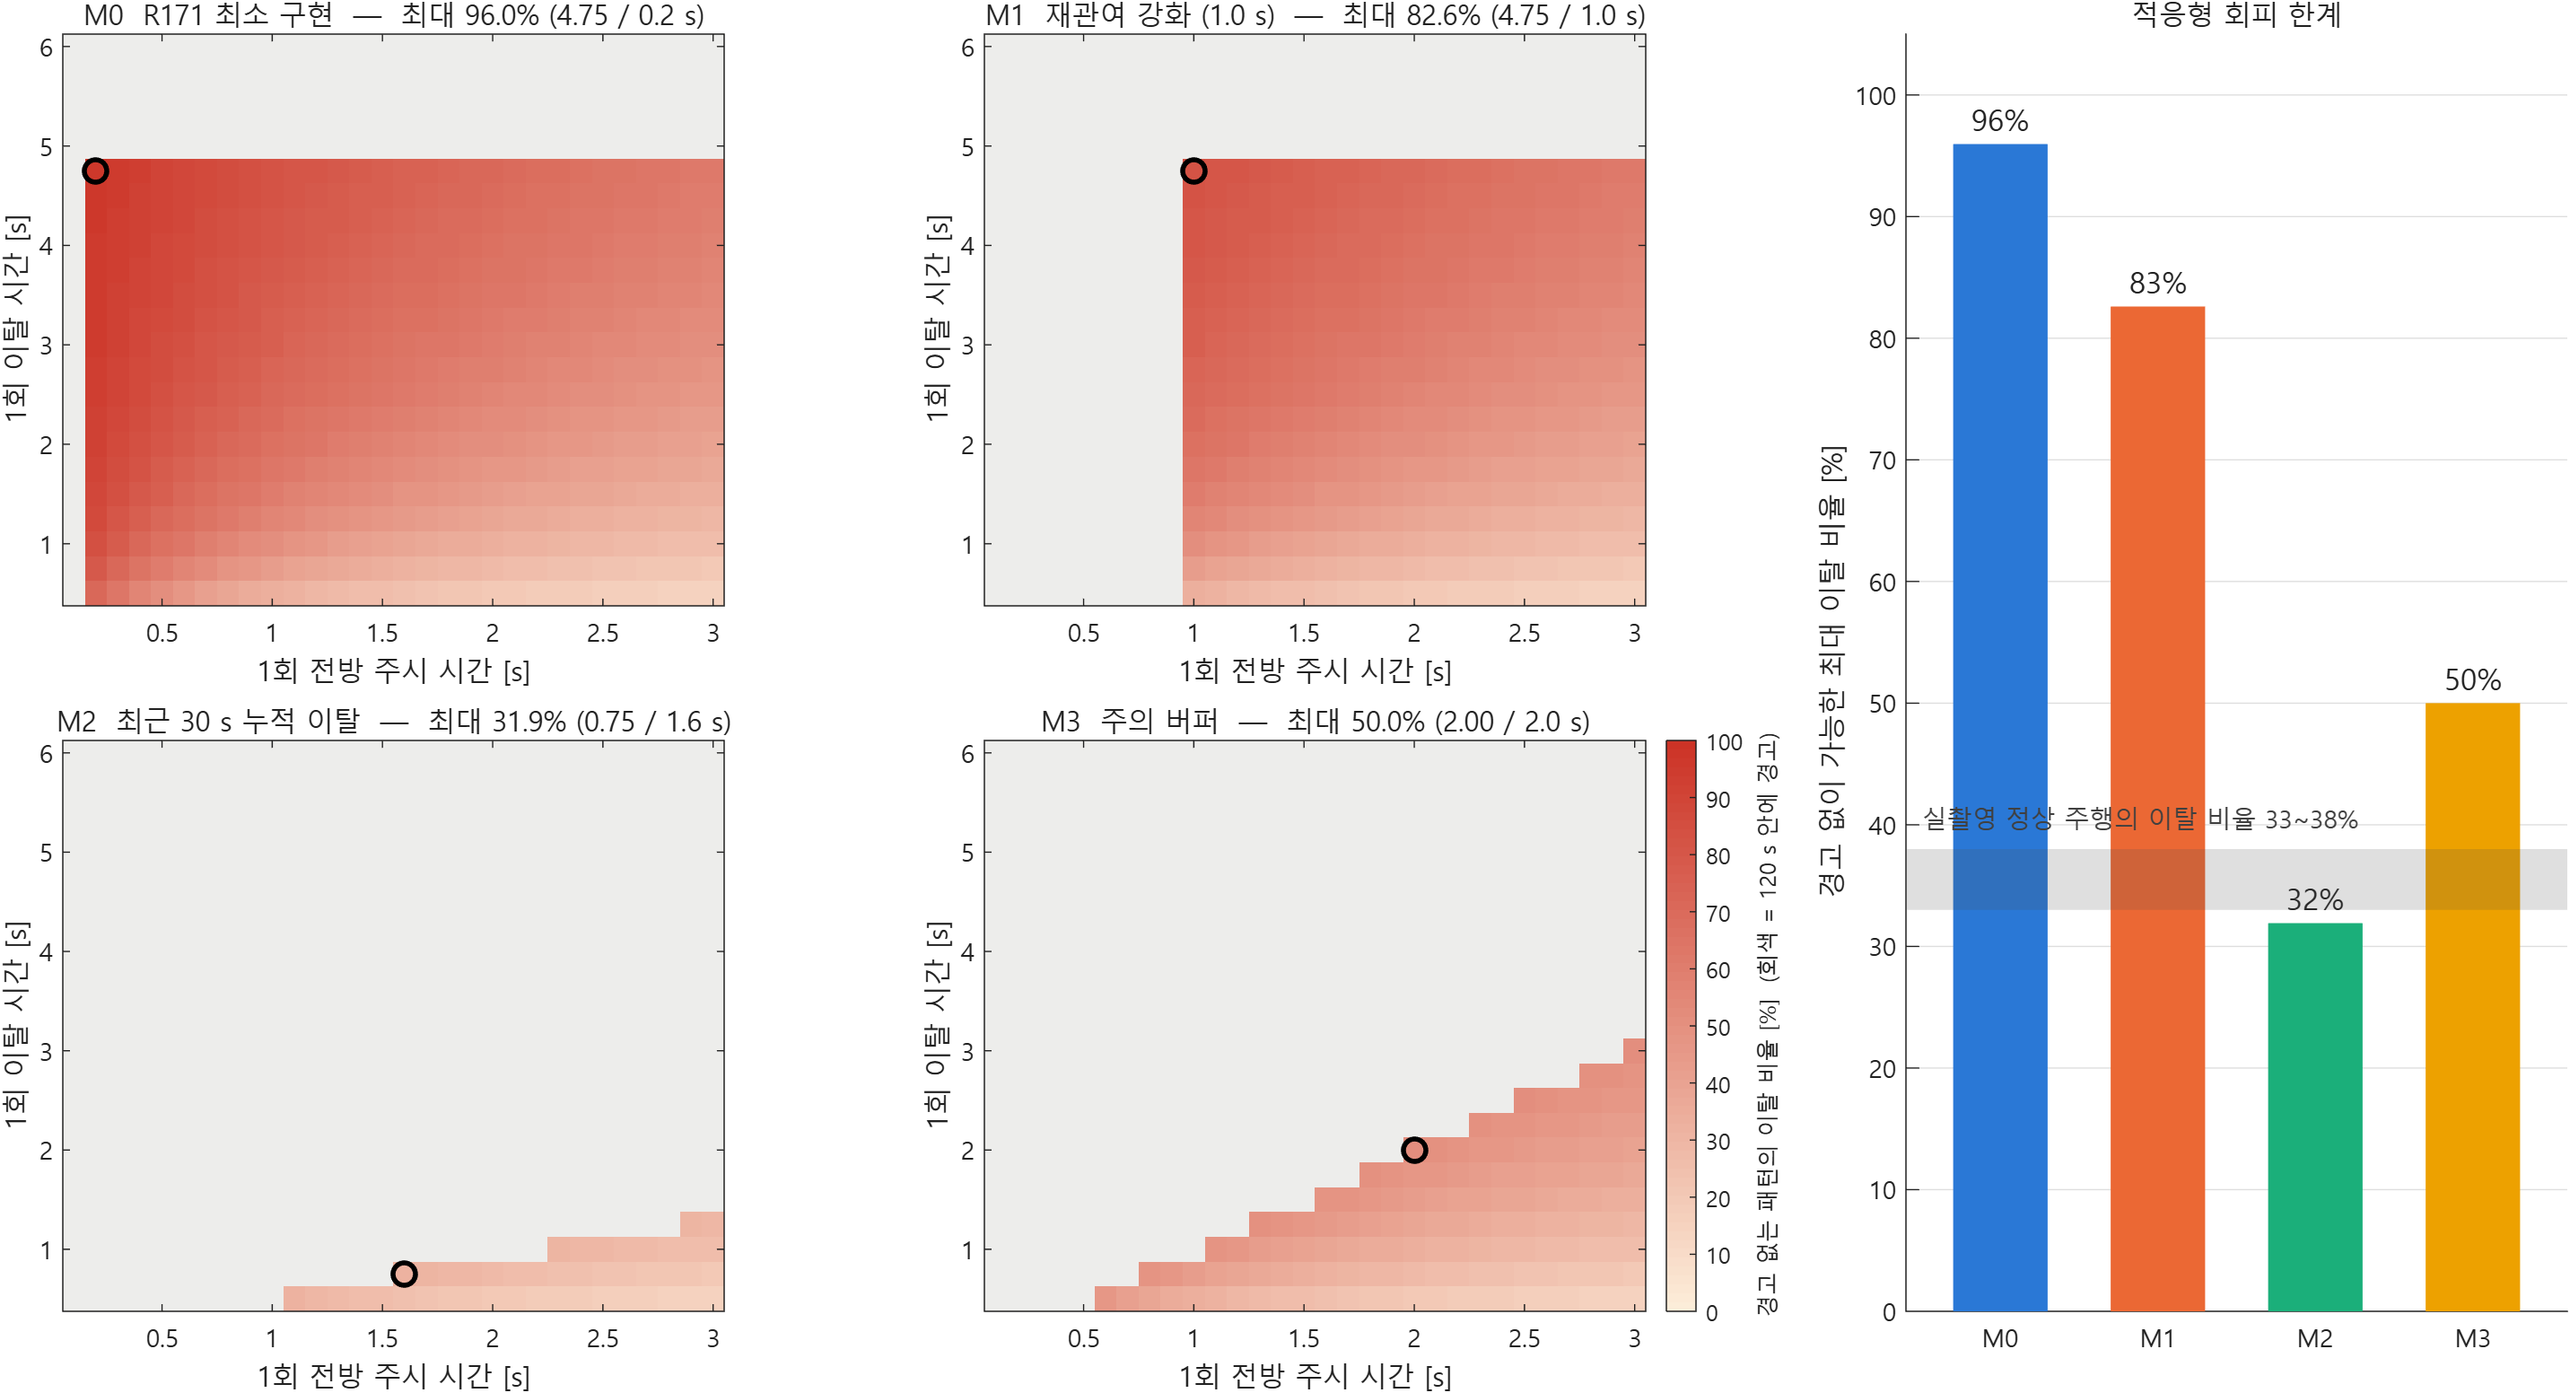
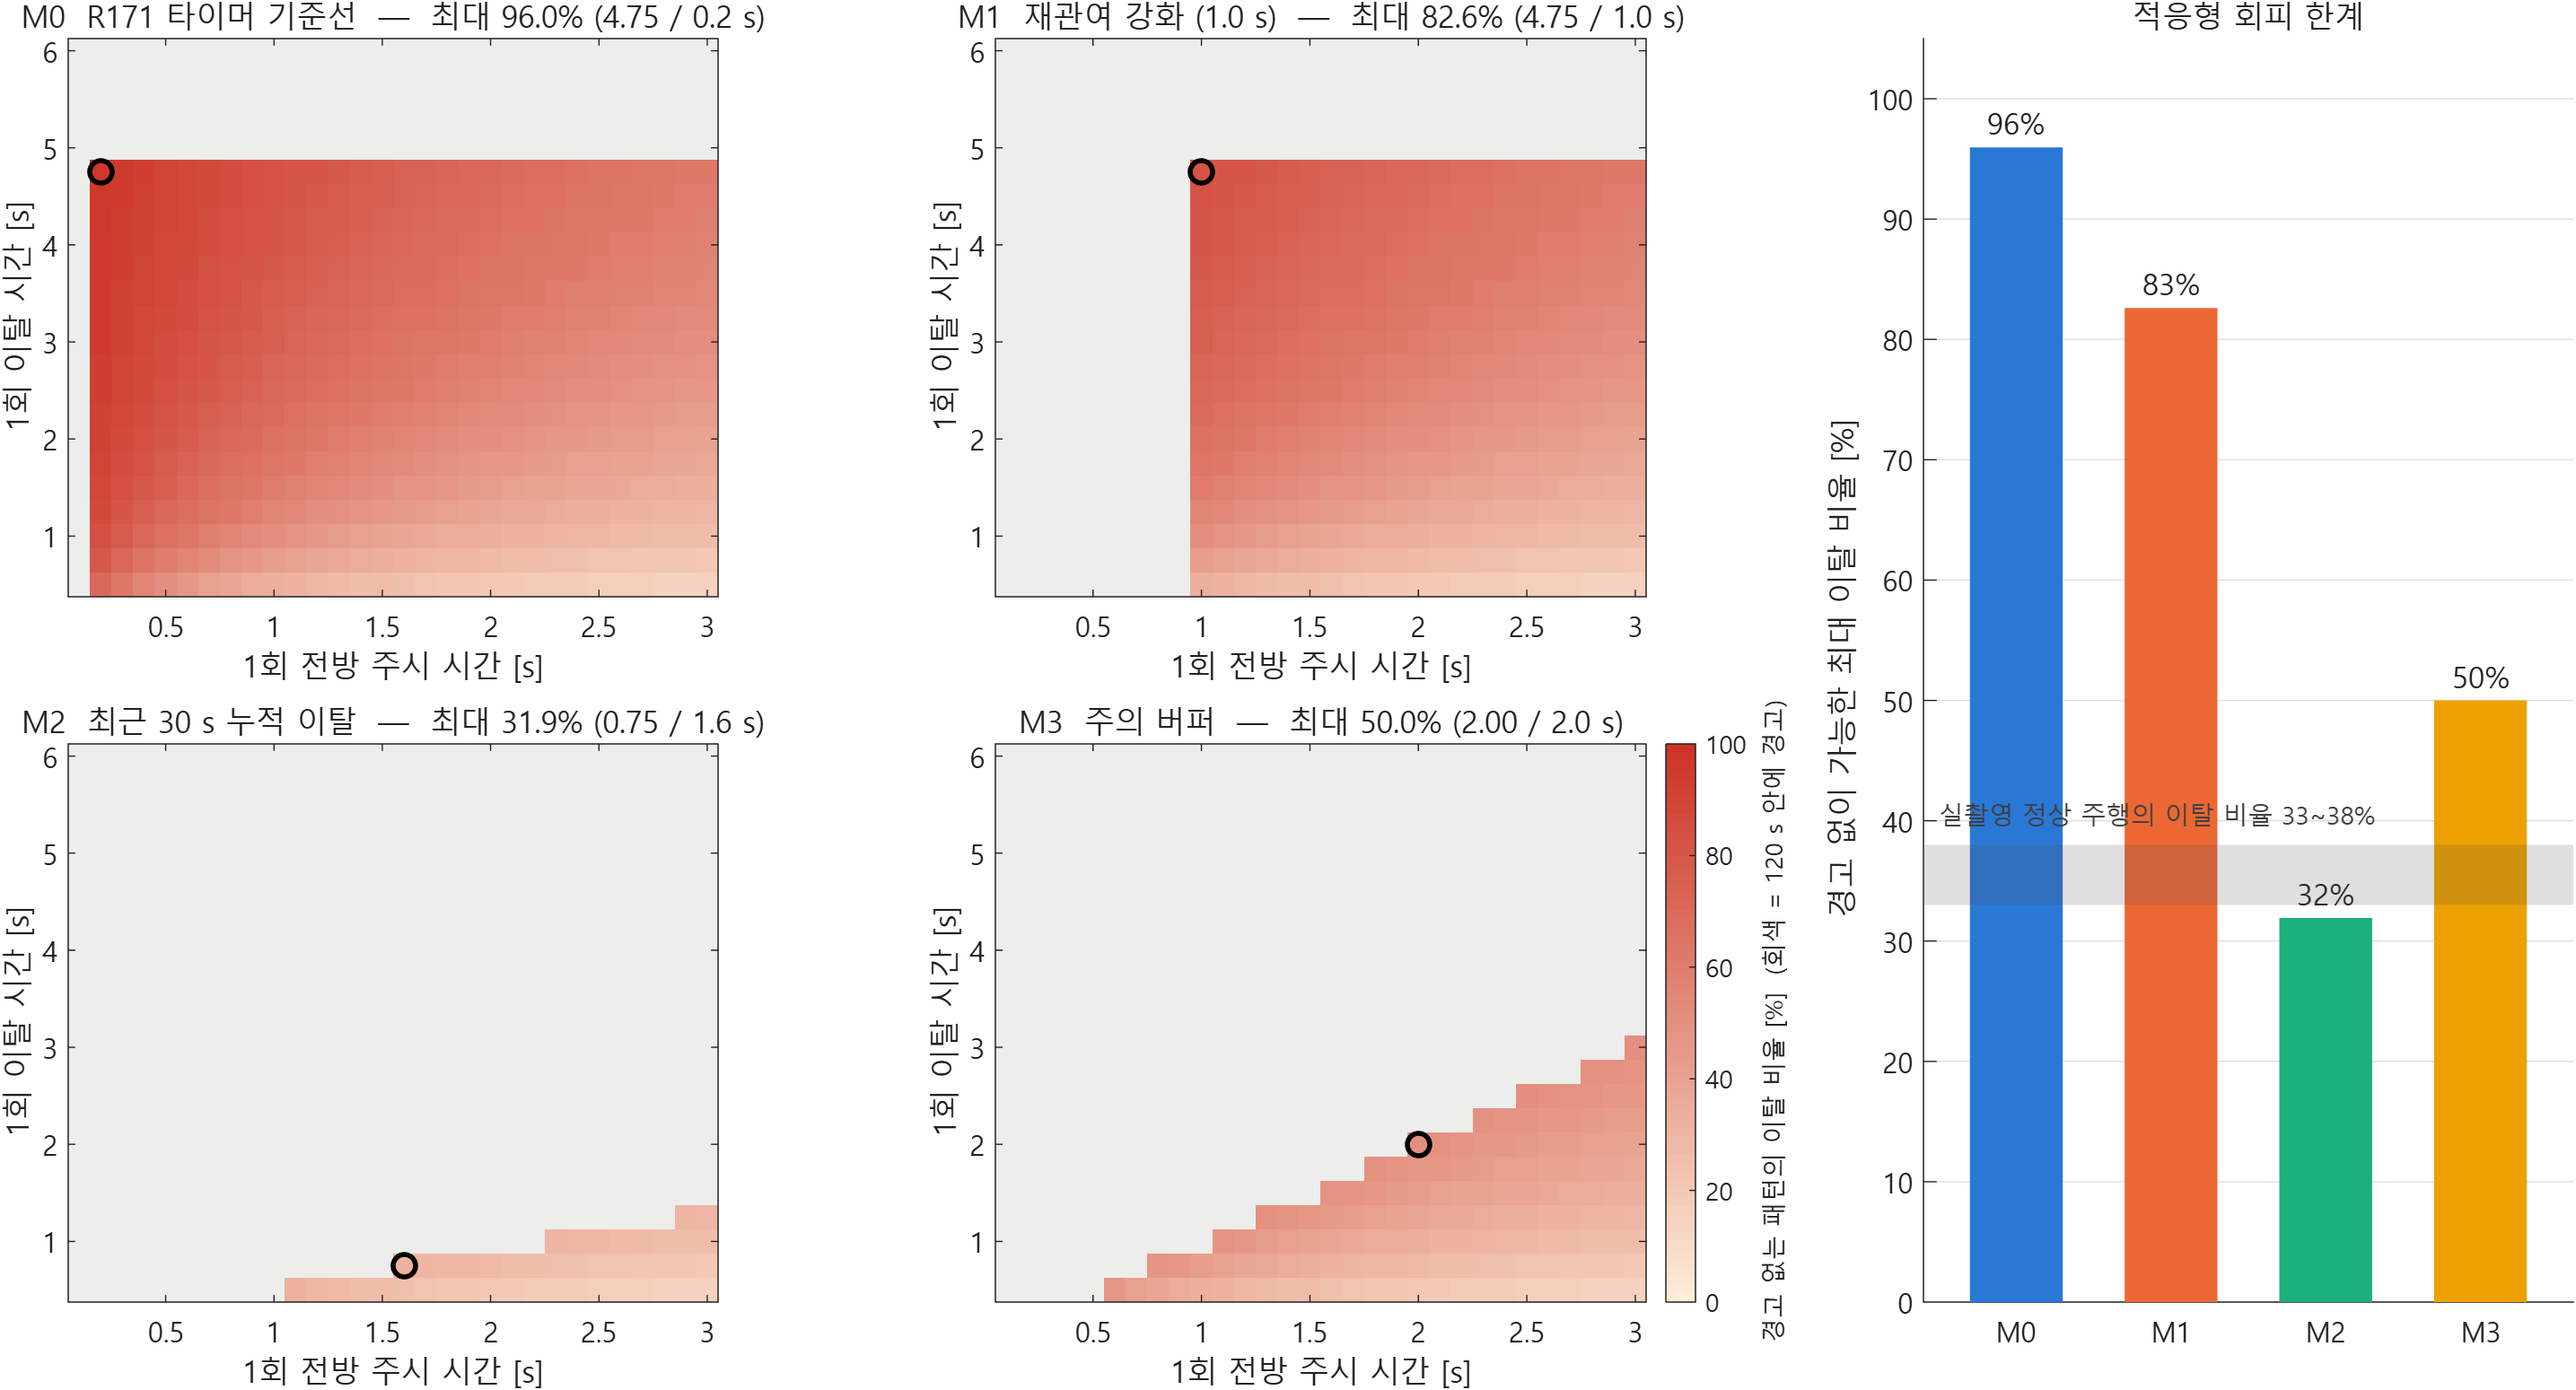
Rename M0 label to 'R171 timer baseline'
M0 implements only the R171 timing clauses and lacks the mandatory repeated short glance countermeasure (5.5.4.2.5.3), so 'minimal implementation' overstated it. Figures regenerated.

diff --git a/src/des_params.m b/src/des_params.m
@@ -52,7 +52,7 @@ P.m3_B_clear   = 1.0;      % 경고 해제: 버퍼가 이 값 이상 회복
 P.aoi_yaw   = 11.0;        % 주시 영역 |yaw| <= 이 값 [deg] (보정 후 각도 기준)
 P.aoi_pitch = 13.0;        % 주시 영역 |pitch| <= 이 값 [deg]
 P.in_stale  = 0.2;         % DMS 프레임이 이보다 오래되면 valid = 0 [s] (통신 끊김 = 이탈)
-P.fz_enable = model ~= 0;  % M0(R171 그대로)는 고정 탐지 없음
+P.fz_enable = model ~= 0;  % M0(R171 타이머 기준선)는 고정 탐지 없음
 P.fz_W      = 10.0;        % 고정 판정 창 [s]: 이 시간 연속 valid 동안
 P.fz_range  = 1.0;         %   yaw, pitch 모두 (최대-최소) < 이 값 [deg] 이면 고정 -> valid = 0
 

diff --git a/scripts/run_adaptive_limit.m b/scripts/run_adaptive_limit.m
@@ -51,7 +51,7 @@ end
 function plot_limit(A, here)
 T = A.T; off_list = A.off_list; on_list = A.on_list; quiet = A.quiet; ratio = A.ratio;
 fn = 'Malgun Gothic';
-names  = {'M0  R171 최소 구현', 'M1  재관여 강화 (1.0 s)', 'M2  최근 30 s 누적 이탈', 'M3  주의 버퍼'};
+names  = {'M0  R171 타이머 기준선', 'M1  재관여 강화 (1.0 s)', 'M2  최근 30 s 누적 이탈', 'M3  주의 버퍼'};
 colors = [0.165 0.471 0.839; 0.922 0.408 0.204; 0.106 0.686 0.478; 0.929 0.631 0];
 cmap = [linspace(0.99, 0.80, 64)' linspace(0.93, 0.20, 64)' linspace(0.85, 0.15, 64)'];
 f = figure('Color', 'w', 'Position', [100 100 1500 760], 'Visible', 'off');

diff --git a/scripts/make_figures.m b/scripts/make_figures.m
@@ -11,7 +11,7 @@ set(groot, 'defaultAxesFontName', 'Malgun Gothic', 'defaultTextFontName', 'Malgu
            'defaultAxesFontSize', 11);
 
 dt = 0.01;
-names  = {'M0  R171 최소 구현', 'M1  재관여 강화 (1.0 s)', 'M2  최근 30 s 누적 이탈', 'M3  주의 버퍼'};
+names  = {'M0  R171 타이머 기준선', 'M1  재관여 강화 (1.0 s)', 'M2  최근 30 s 누적 이탈', 'M3  주의 버퍼'};
 colors = [0.165 0.471 0.839; 0.922 0.408 0.204; 0.106 0.686 0.478; 0.929 0.631 0];
 ink    = [0.32 0.32 0.31];
 stages = {'정상', 'EOR', '강화 EOR', 'DCA', '운전불가'};

diff --git a/scripts/make_dms_figures.m b/scripts/make_dms_figures.m
@@ -14,7 +14,7 @@ if nargin < 3 || isempty(outdir), outdir = fullfile(here, 'figures', 'dms'); end
 if ~exist(outdir, 'dir'), mkdir(outdir); end
 
 fn = 'Malgun Gothic';
-names  = {'M0  R171 최소 구현', 'M1  재관여 강화', 'M2  30 s 누적 이탈', 'M3  주의 버퍼'};
+names  = {'M0  R171 타이머 기준선', 'M1  재관여 강화', 'M2  30 s 누적 이탈', 'M3  주의 버퍼'};
 colors = [0.165 0.471 0.839; 0.922 0.408 0.204; 0.106 0.686 0.478; 0.929 0.631 0];
 stages = {'정상', 'EOR', '강화 EOR', 'DCA', '운전불가'};
 band   = [0.88 0.88 0.86];

diff --git a/src/sim_system.m b/src/sim_system.m
@@ -4,7 +4,7 @@ function L = sim_system(U, sel_model)
 %   U: 100 Hz 스텝 입력 (des_resample 출력 형식: valid, yaw, pitch, action, reset)
 %
 %   Simulink 모델(model/des_supervisor.slx)과 RPi5 실행 프로그램이 매 스텝 이 결과와 같아야 한다.
-%   채널마다 P.fz_enable이면 고정 탐지 결과를 valid에 반영 (M0는 R171 그대로라 미적용).
+%   채널마다 P.fz_enable이면 고정 탐지 결과를 valid에 반영 (M0는 R171 타이머 기준선이라 미적용).
 
 if nargin < 2, sel_model = 3; end
 n  = numel(U.valid);

diff --git a/tests/test_input_stage.m b/tests/test_input_stage.m
@@ -63,7 +63,7 @@ tc.verifyTrue(U.valid(51));
 end
 
 function test_photo_m0_silent_selected_alarms(tc)
-% 사진(고정): M0는 R171 그대로라 속고, 선택 모델은 고정 탐지로 경고
+% 사진(고정): M0는 타이머 기준선이라 속고, 선택 모델은 고정 탐지로 경고
 n = 4000;
 U.valid = true(n, 1); U.yaw = 0.1 * sin((1:n)' * 0.05); U.pitch = zeros(n, 1);
 U.action = false(n, 1); U.reset = false(n, 1);

diff --git a/src/des_detect.m b/src/des_detect.m
@@ -63,7 +63,7 @@ r171_off = S.dis_k >= tk(P.T_eor, P.dt);
 % =====================================================================
 switch P.model
     case {0, 1}
-        % M0: R171 최소 구현 / M1: 재관여 인정 시간만 강화
+        % M0: R171 시간 조항만 (타이머 기준선) / M1: 재관여 인정 시간만 강화
         disengaged = r171_off;
         metric = S.dis_k * P.dt;
 

diff --git a/deploy/rpi/des_main.c b/deploy/rpi/des_main.c
@@ -249,7 +249,7 @@ static void summary_update(long k, const des_output_t *o)
 static const char *ch_label(int c)
 {
     static char buf[32];
-    if (c == 0) return "M0 (R171 기준)";
+    if (c == 0) return "M0 (R171 타이머)";
     snprintf(buf, sizeof buf, "M%d (선택 모델)", DES_SEL_MODEL);
     return buf;
 }

diff --git a/deploy/README.md b/deploy/README.md
@@ -45,7 +45,7 @@ sudo apt install -y libgpiod-dev && make clean && make GPIO=1
 
 실촬영 DMS CSV 3개와 DMS 팀이 만든 4.8/0.3 합성 CSV 1개다. 모두 `--calib 5`로 실행한다.
 
-| 파일 | 원본 | 내용 | M0 (R171 기준) | M3 (선택 모델) |
+| 파일 | 원본 | 내용 | M0 (R171 타이머) | M3 (선택 모델) |
 |---|---|---|---|---|
 | `1_normal.csv` | s1_2_1 | 정상 주행 중 내비 확인 | 경고 없음 | 경고 없음 |
 | `2_continuous.csv` | s2_1 | 스마트폰 연속 이탈 | 11.11초 EOR | 11.11초 EOR (같은 시각) |
@@ -87,7 +87,7 @@ sock.sendto(f"{t:.3f},{int(valid)},{yaw:.2f},{pitch:.2f}\n".encode(), (PI_IP, 50
 
 ## 4. GPIO 배선 (`--gpio`, BCM 번호)
 
-| 핀 | M0 (R171 기준) | 핀 | 선택 모델 |
+| 핀 | M0 (R171 타이머) | 핀 | 선택 모델 |
 |---|---|---|---|
 | 5 | EOR 이상 | 12 | EOR 이상 |
 | 6 | 강화 EOR 이상 | 16 | 강화 EOR 이상 |

diff --git a/README.md b/README.md
@@ -119,7 +119,7 @@ DMS (노트북) ── CSV: timestamp, face_detected, yaw, pitch ──► RPi5 
 | `aoi_yaw`, `aoi_pitch` | 11°, 13° | 처음 5초 0점 보정 후 \|yaw\|, \|pitch\|가 이 범위 안이면 주시 (11/12 확정) |
 | `in_stale` | 0.2 s | 이보다 오래된 프레임은 미검출 처리 |
 | `fz_W`, `fz_range` | 10 s, 1.0° | 10초 동안 yaw와 pitch 변화폭이 모두 1° 미만이면 고정(사진 의심) → 미검출 처리 |
-| `fz_enable` | M0만 false | M0는 R171 그대로 두고 비교 기준선으로 씀 |
+| `fz_enable` | M0만 false | M0는 R171 타이머 기준선으로 남겨 비교에 씀 |
 
 ## 검증 결과 (2026-11-12, R171 01 series 반영 후)
 
